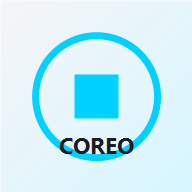
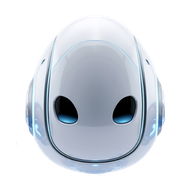
Update COREO Stage2 v2.3 visuals

diff --git a/css/tokens.css b/css/tokens.css
@@ -1,4 +1,4 @@
-/* css/tokens.css */
+/* css/tokens.css */
 :root {
   /* COREO Light Core Aurora 明亮座艙 - 真機對比補強 */
   --coreo-bg-base: #F4F6F8;
@@ -12,6 +12,7 @@
   --coreo-glow-core: #00BFFF;
   --coreo-glow-hot: #78E9FF;
   --coreo-credit: #C9A45D;
+  --coreo-credit-hot: #F0D89A;
   --coreo-danger: #FF3B30;
 }
 
@@ -80,8 +81,8 @@ body {
 }
 
 .hud-value.glow {
-  color: var(--coreo-glow-core);
-  text-shadow: 0 0 16px rgba(0, 191, 255, 0.72);
+  color: var(--coreo-credit);
+  text-shadow: 0 0 16px rgba(240, 216, 154, 0.76);
   transform: scale(1.2);
 }
 
@@ -103,8 +104,8 @@ body {
 #game-container {
   position: fixed;
   inset: 0;
-  perspective: 1120px;
-  perspective-origin: 50% 58%;
+  perspective: 1280px;
+  perspective-origin: 50% 54%;
   display: flex;
   align-items: center;
   justify-content: center;
@@ -117,8 +118,8 @@ body {
   top: 0;
   left: 0;
   width: 100%;
-  height: 28%;
-  background: linear-gradient(to bottom, rgba(244, 246, 248, 0.96) 0%, rgba(244, 246, 248, 0.58) 52%, transparent 100%);
+  height: 18%;
+  background: linear-gradient(to bottom, rgba(244, 246, 248, 0.78) 0%, rgba(244, 246, 248, 0.28) 58%, transparent 100%);
   z-index: 500;
   pointer-events: none;
 }
@@ -137,7 +138,7 @@ body {
   position: absolute;
   left: 50%;
   top: 50%;
-  transform: rotateX(43deg) translateZ(-130px);
+  transform: rotateX(40deg) translateZ(-165px);
   transition: transform 0.08s linear;
   will-change: transform;
 }
@@ -180,37 +181,74 @@ body {
   transform: rotateX(-90deg);
 }
 
+.cell.start {
+  background:
+    radial-gradient(circle at 50% 50%, rgba(255, 255, 255, 0.42) 0 24%, transparent 25%),
+    var(--coreo-path);
+}
+
+.cell.start::before,
 .cell.start::after {
-  content: 'START';
+  content: '';
   position: absolute;
   top: 50%;
   left: 50%;
+  pointer-events: none;
+}
+
+.cell.start::before {
+  width: 30px;
+  height: 30px;
+  border: 2px solid rgba(110, 115, 123, 0.36);
+  border-radius: 50%;
+  transform: translate(-50%, -50%) scale(0.82);
+  box-shadow: inset 0 0 10px rgba(110, 115, 123, 0.12);
+}
+
+.cell.start::after {
+  width: 11px;
+  height: 11px;
+  border-radius: 50%;
+  background: rgba(110, 115, 123, 0.52);
   transform: translate(-50%, -50%);
-  font-size: 9px;
-  font-weight: 700;
-  color: var(--coreo-text-secondary);
-  opacity: 0.75;
+  box-shadow: 0 0 8px rgba(110, 115, 123, 0.22);
 }
 
 .cell.exit {
   border: 2px solid var(--coreo-glow-core);
   box-shadow:
-    inset 0 0 20px rgba(0, 191, 255, 0.30),
-    0 0 20px rgba(0, 191, 255, 0.18);
-  background: rgba(120, 233, 255, 0.08);
+    inset 0 0 24px rgba(0, 191, 255, 0.34),
+    0 0 24px rgba(0, 191, 255, 0.24);
+  background: rgba(120, 233, 255, 0.10);
 }
 
-.cell.exit::before {
+.cell.exit::before,
+.cell.exit::after {
   content: '';
   position: absolute;
   top: 50%;
   left: 50%;
-  transform: translate(-50%, -50%);
-  width: 30px;
-  height: 30px;
+  pointer-events: none;
+}
+
+.cell.exit::before {
+  width: 35px;
+  height: 35px;
   border: 2px solid var(--coreo-glow-core);
-  border-radius: 7px;
+  border-radius: 50%;
+  transform: translate(-50%, -50%);
+  box-shadow: 0 0 16px rgba(0, 191, 255, 0.34);
   animation: pulse-exit 2s infinite;
+}
+
+.cell.exit::after {
+  width: 19px;
+  height: 19px;
+  border: 2px solid var(--coreo-credit-hot);
+  border-left-color: transparent;
+  border-bottom-color: transparent;
+  transform: translate(-50%, -50%) rotate(45deg);
+  box-shadow: 6px -6px 14px rgba(240, 216, 154, 0.28);
 }
 
 /* =========================================
@@ -218,14 +256,14 @@ body {
 ========================================= */
 #player {
   position: absolute;
-  width: 22px;
-  height: 22px;
-  background: radial-gradient(circle at 35% 30%, #FFFFFF 0%, var(--coreo-glow-hot) 24%, var(--coreo-glow-core) 70%);
-  border-radius: 6px;
-  box-shadow:
-    0 0 24px rgba(0, 191, 255, 0.86),
-    0 0 48px rgba(0, 191, 255, 0.36),
-    inset 0 0 5px #FFFFFF;
+  width: 40px;
+  height: 40px;
+  background-image: url('../assets/player.png');
+  background-size: contain;
+  background-position: center;
+  background-repeat: no-repeat;
+  border-radius: 50%;
+  filter: drop-shadow(0 0 10px rgba(0, 191, 255, 0.72)) drop-shadow(0 0 22px rgba(0, 191, 255, 0.38));
   transform-style: preserve-3d;
   z-index: 100;
   transition: top 0.07s linear, left 0.07s linear, transform 0.1s ease;
@@ -235,11 +273,11 @@ body {
   position: absolute;
   width: 16px;
   height: 16px;
-  background: radial-gradient(circle, #FFFFFF 0%, var(--coreo-glow-hot) 34%, var(--coreo-glow-core) 74%);
+  background: radial-gradient(circle, #FFFFFF 0%, var(--coreo-credit-hot) 34%, var(--coreo-credit) 74%);
   border-radius: 50%;
   box-shadow:
-    0 0 16px var(--coreo-glow-core),
-    0 0 32px rgba(0, 191, 255, 0.55);
+    0 0 16px rgba(201, 164, 93, 0.86),
+    0 0 32px rgba(240, 216, 154, 0.48);
   top: 50%;
   left: 50%;
   transform: translate(-50%, -50%) translateZ(18px);
@@ -318,9 +356,9 @@ body {
 }
 
 @keyframes wall-bump {
-  0%, 100% { transform: translateZ(18px) rotate(0deg); }
-  25% { transform: translateZ(18px) rotate(5deg) scale(0.92); }
-  75% { transform: translateZ(18px) rotate(-5deg) scale(0.92); }
+  0%, 100% { transform: translate(-50%, -50%) translateZ(24px) rotate(0deg); }
+  25% { transform: translate(-50%, -50%) translateZ(24px) rotate(5deg) scale(0.92); }
+  75% { transform: translate(-50%, -50%) translateZ(24px) rotate(-5deg) scale(0.92); }
 }
 
 #level-complete-overlay {
@@ -353,3 +391,4 @@ body {
   margin: 12px 0;
   box-shadow: 0 0 12px var(--coreo-glow-core);
 }
+

diff --git a/js/fx.js b/js/fx.js
@@ -1,4 +1,4 @@
-// js/fx.js
+// js/fx.js
 const FX = {
   // 收集 Light Core：實體飛向 HUD
   collectCore: function(coreDOM) {
@@ -15,9 +15,9 @@ const FX = {
     particle.style.top = `${rect.top + rect.height/2}px`;
     particle.style.width = '12px';
     particle.style.height = '12px';
-    particle.style.backgroundColor = 'var(--coreo-glow-core)';
+    particle.style.backgroundColor = 'var(--coreo-credit-hot)';
     particle.style.borderRadius = '50%';
-    particle.style.boxShadow = '0 0 15px var(--coreo-glow-core)';
+    particle.style.boxShadow = '0 0 15px rgba(240, 216, 154, 0.85)';
     particle.style.zIndex = '9999';
     particle.style.pointerEvents = 'none';
     document.body.appendChild(particle);
@@ -66,3 +66,4 @@ const FX = {
     }, {once: true});
   }
 };
+

diff --git a/js/main.js b/js/main.js
@@ -1,4 +1,4 @@
-// js/main.js
+// js/main.js
 window.addEventListener('DOMContentLoaded', () => {
   document.addEventListener('touchmove', (event) => event.preventDefault(), { passive: false });
   document.addEventListener('gesturestart', (event) => event.preventDefault(), { passive: false });
@@ -14,7 +14,7 @@ window.addEventListener('DOMContentLoaded', () => {
   world.appendChild(playerDiv);
 
   const CELL_SIZE = Render3D.CELL_SIZE;
-  const PLAYER_RADIUS = 9;
+  const PLAYER_RADIUS = 14;
   const SPEED = 4.2;
   let isGameOver = false;
 
@@ -35,7 +35,7 @@ window.addEventListener('DOMContentLoaded', () => {
     playerDiv.style.left = `${playerPos.x}px`;
     playerDiv.style.top = `${playerPos.y}px`;
     // 玩家本體稍微浮空，強化 3D 感
-    playerDiv.style.transform = `translate(-50%, -50%) translateZ(22px)`;
+    playerDiv.style.transform = `translate(-50%, -50%) translateZ(24px)`;
   }
 
   function checkPickups() {
@@ -90,3 +90,4 @@ window.addEventListener('DOMContentLoaded', () => {
   updatePlayerDOM();
   requestAnimationFrame(gameLoop);
 });
+

diff --git a/js/camera.js b/js/camera.js
@@ -1,4 +1,4 @@
-// js/camera.js
+// js/camera.js
 const CameraLogic = {
   worldDOM: null,
   currentY: 0,
@@ -16,12 +16,12 @@ const CameraLogic = {
 
     const worldHeight = this.worldDOM.offsetHeight || 0;
     const viewportHeight = window.innerHeight || document.documentElement.clientHeight || 0;
-    const anchorY = viewportHeight * 0.66;
+    const anchorY = viewportHeight * 0.70;
     const unshiftedPlayerY = (viewportHeight * 0.5) - (worldHeight * 0.5) + playerWorldY;
 
     this.targetY = anchorY - unshiftedPlayerY;
     this.currentY += (this.targetY - this.currentY) * 0.16;
 
-    this.worldDOM.style.transform = `rotateX(43deg) translateZ(-130px) translateY(${this.currentY}px)`;
+    this.worldDOM.style.transform = `rotateX(40deg) translateZ(-165px) translateY(${this.currentY}px)`;
   }
 };

diff --git a/service-worker.js b/service-worker.js
@@ -1,4 +1,4 @@
-const COREO_CACHE = 'coreo-pwa-shell-v2-stage2-fit-20260707';
+const COREO_CACHE = 'coreo-pwa-shell-v23-stage2-visual-20260707';
 const COREO_ASSETS = [
   './',
   './index.html',
@@ -12,7 +12,8 @@ const COREO_ASSETS = [
   './js/main.js',
   './icons/icon-180.png',
   './icons/icon-192.png',
-  './icons/icon-512.png'
+  './icons/icon-512.png',
+  './assets/player.png'
 ];
 
 self.addEventListener('install', (event) => {
@@ -43,3 +44,4 @@ self.addEventListener('fetch', (event) => {
       .catch(() => caches.match(event.request).then((cached) => cached || caches.match('./index.html')))
   );
 });
+

diff --git a/index.html b/index.html
@@ -1,4 +1,4 @@
-<!DOCTYPE html>
+<!DOCTYPE html>
 <html lang="zh-TW">
 <head>
   <meta charset="UTF-8">
@@ -25,7 +25,7 @@
   </div>
 
   <!-- 版本標記，方便對照測試先後順序，不列入正式 HUD 視覺 -->
-  <div id="version-tag">COREO STAGE2 v2.1</div>
+  <div id="version-tag">COREO STAGE2 v2.3</div>
 
   <!-- 3D 遊戲世界 -->
   <div id="game-container">
@@ -67,4 +67,5 @@
   </script>
 </body>
 </html>
+
 

diff --git a/README.md b/README.md
@@ -1,4 +1,4 @@
-# COREO - Stage 2 操控 × 鏡頭 × 深度 × 動態品質驗證 (Gym Prototype)
+# COREO - Stage 2 操控 × 鏡頭 × 深度 × 動態品質驗證 (Gym Prototype)
 
 本專案為 COREO Stage 2 體感驗證房，用於 GitHub Pages 線上測試。
 
@@ -17,4 +17,7 @@
 |---|---|---|
 | v2.0 | 2026-07-07 | S 產出 Stage 2 體感驗證原型：3D 深度、鏡頭捲動、浮動搖桿、動態回饋動畫。 |
 | v2.1 | 2026-07-07 | CX 補上 PWA Shell（manifest.json、service-worker.js、icons、iOS meta tags），可加入主畫面。 |
-| v2.2（待處理） | — | 修正 3D 走廊擠壓在畫面上方的視覺比例問題（調整 rotateX / perspective / CELL_SIZE）。 |
+| v2.2 | 2026-07-07 | CX 修正真機三項問題：`html/body` 改 `position:fixed` 鎖死＋全域 touchmove/gesturestart 阻擋（修觸控飄移）、CELL_SIZE 40→58px＋鏡頭錨點重算（修畫面過小/路線過窄）、色彩對比全面加強（修配色單薄）。待 Sean 真機驗證。 |
+
+| v2.3 | 2026-07-07 | CX 更新主角圖檔、手機 icon、Light Core 金色分離、入口/出口幾何符號、鏡頭可視範圍延伸，供真機測試。 |
+